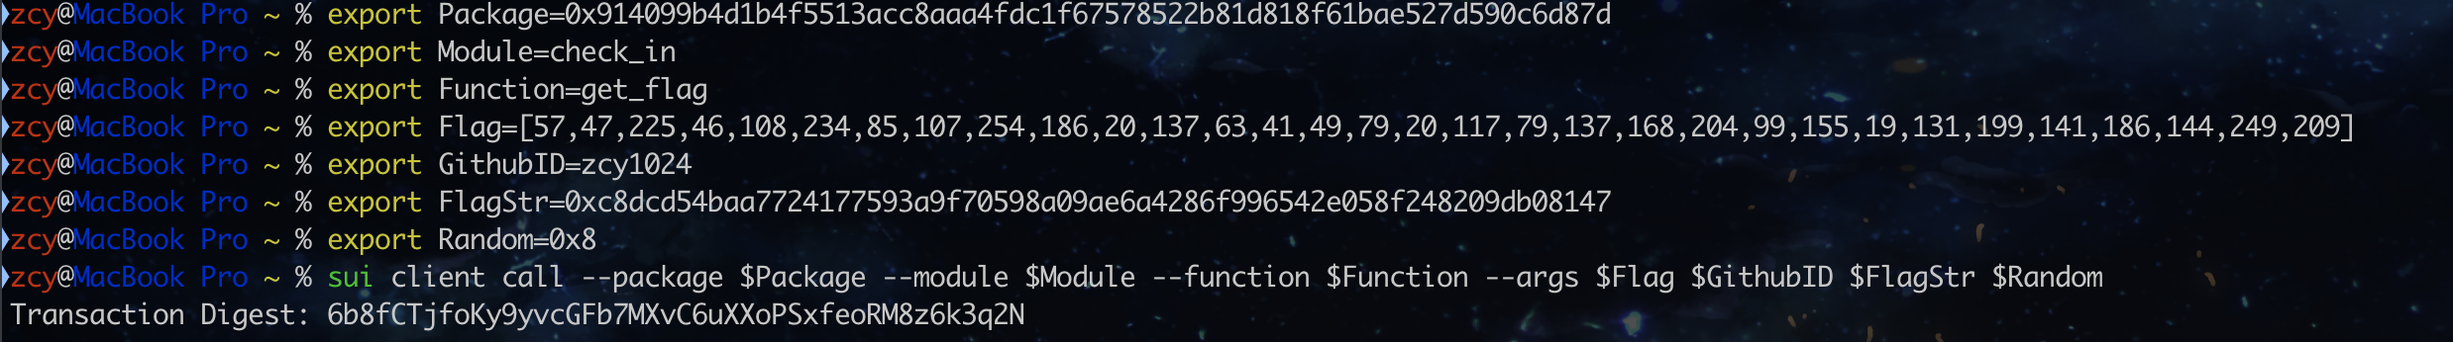
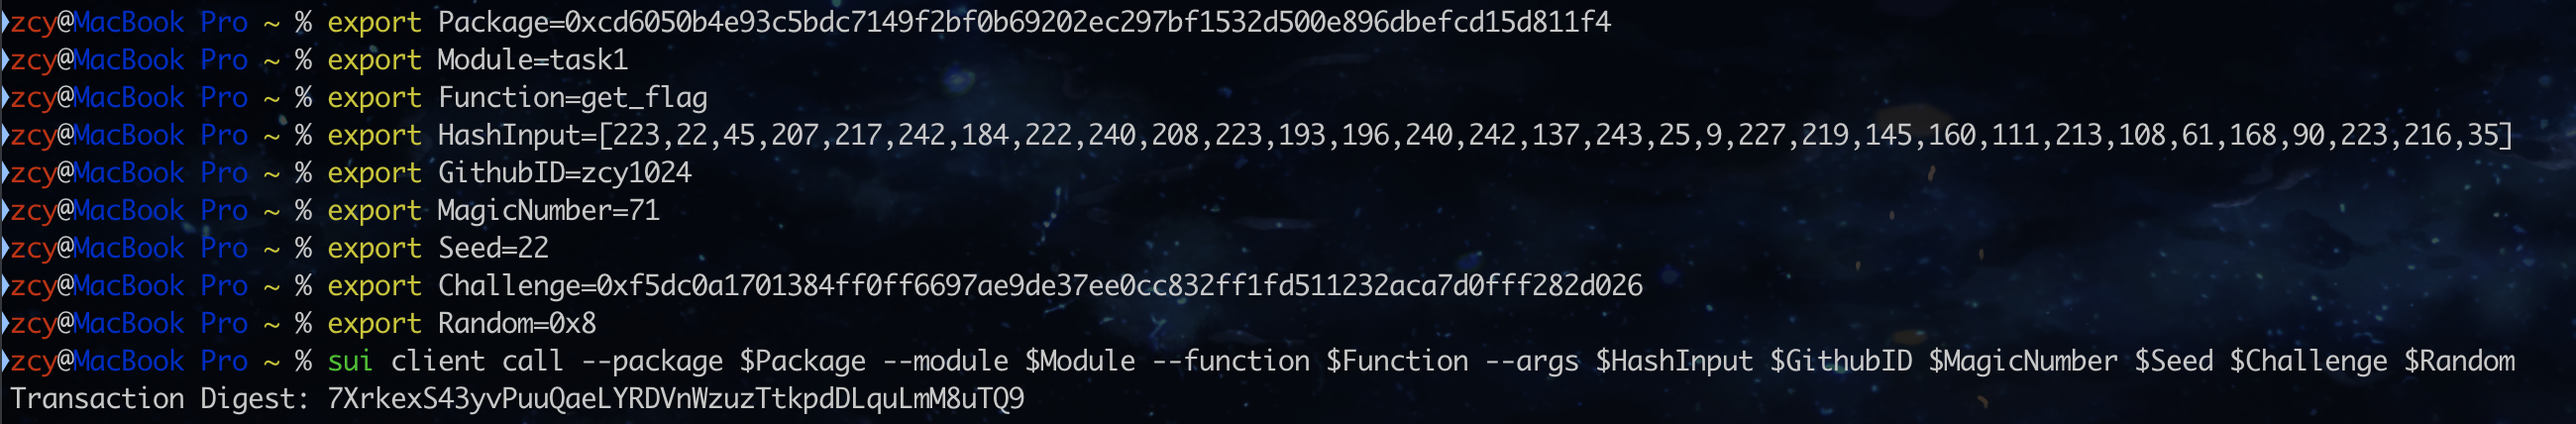
the newest task1

diff --git a/move ctfer/zcy1024/README.md b/move ctfer/zcy1024/README.md
@@ -9,8 +9,8 @@
 
 ### 01 Move CTF Check In
 - [x] CLI call 截图: ![task1](./images/task1.png)
-- [x] flag hash: 6b8fCTjfoKy9yvcGFb7MXvC6uXXoPSxfeoRM8z6k3q2N
+- [x] flag hash: 7XrkexS43yvPuuQaeLYRDVnWzuzTtkpdDLquLmM8uTQ9
 
 ### 02 Move CTF Lets Move
-- [x] proof: [163,72,102,0]
-- [x] flag hash: 5korJD1KWLAikydzJ5BKg7ErKiaBztzgFgC6XBC96Q1W
+- [] proof: 
+- [] flag hash: 
